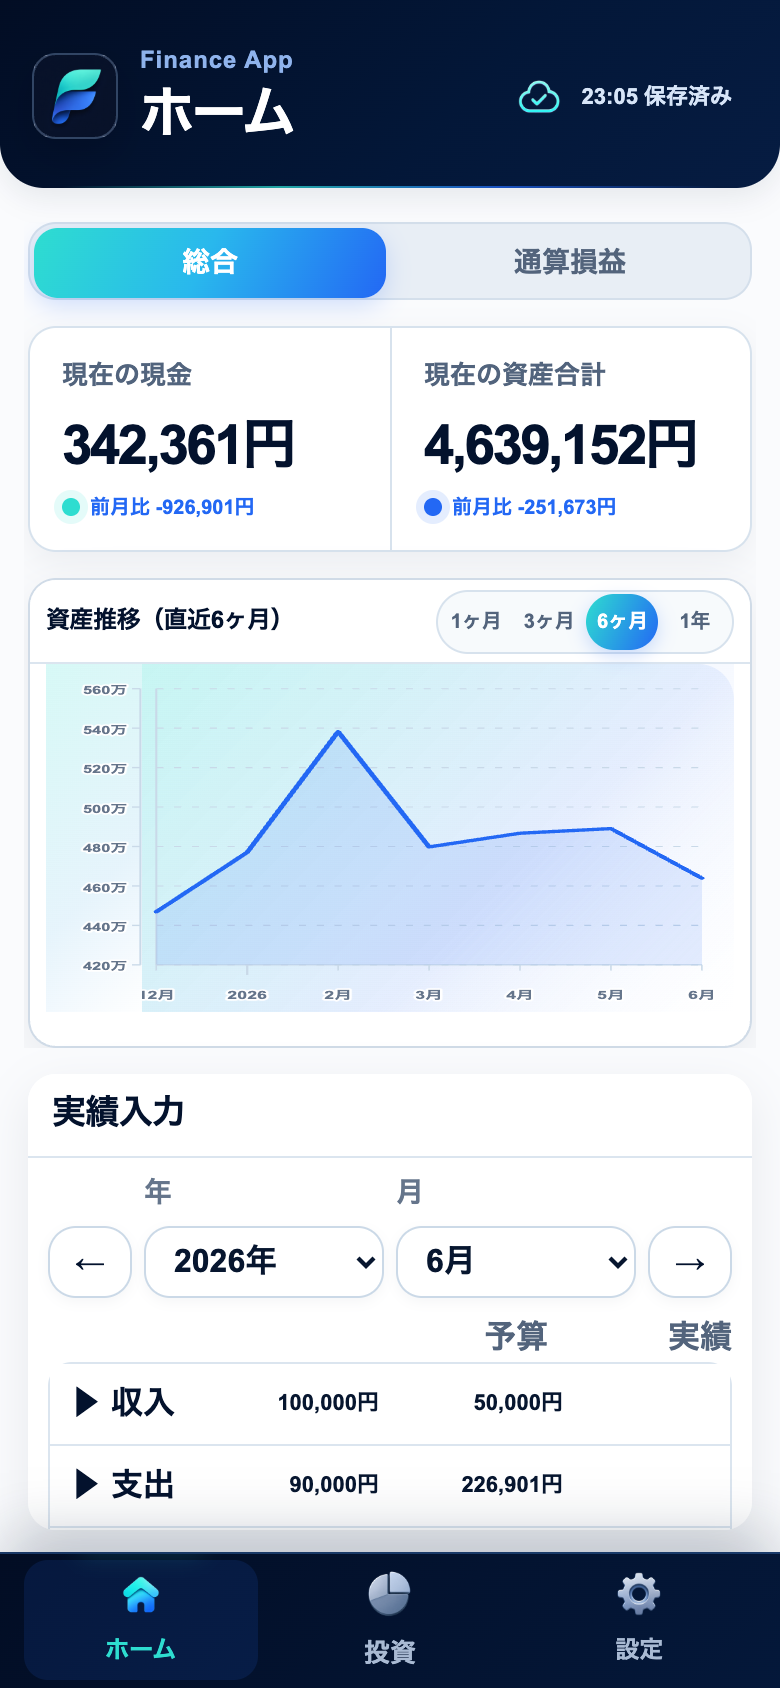
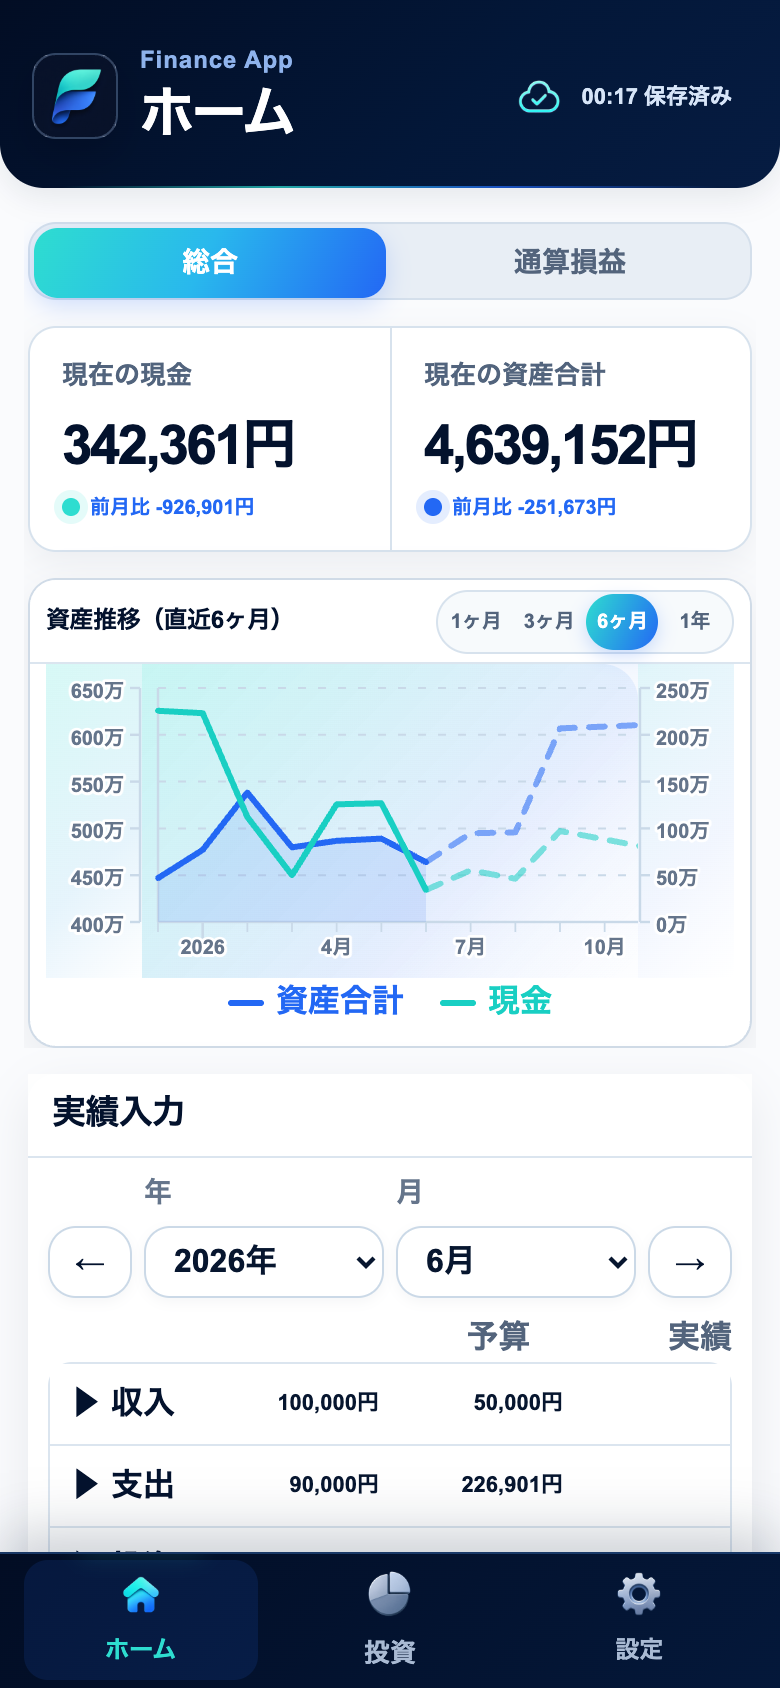
Show forecast lines and fix actual inputs

Changed region(s): [[0.0923, 0.4005, 0.9231, 0.6161], [0.5846, 0.7701, 0.7077, 0.8009], [0.7385, 0.0308, 0.8308, 0.0616]]

diff --git a/components/finance/ShortKView.tsx b/components/finance/ShortKView.tsx
@@ -220,21 +220,28 @@ export function ShortKView({
           typeof row.assetActual === "number" ||
           typeof row.cashActual === "number",
       );
-      const endIndex =
-        lastActualIndex >= 0 ? lastActualIndex + 1 : shortKSeries.length;
-      return shortKSeries
-      .slice(Math.max(0, endIndex - chartRange - 1), endIndex)
-      .map((row) => ({
-        ...row,
-        cashDisplay:
-          typeof row.cashActual === "number"
-            ? row.cashActual
-            : row.cashPrediction,
-        assetDisplay:
-          typeof row.assetActual === "number"
-            ? row.assetActual
-            : row.assetPrediction,
-      }));
+      const anchorIndex =
+        lastActualIndex >= 0 ? lastActualIndex : Math.max(shortKSeries.length - 1, 0);
+      const startIndex = Math.max(0, anchorIndex - chartRange);
+      const endIndex = Math.min(
+        shortKSeries.length,
+        anchorIndex + chartRange + 1,
+      );
+      return shortKSeries.slice(startIndex, endIndex).map((row, offset) => {
+        const index = startIndex + offset;
+        const isPredictionRange = index >= anchorIndex;
+        return {
+          ...row,
+          cashActualDisplay: row.cashActual,
+          cashPredictionDisplay: isPredictionRange
+            ? row.cashPrediction
+            : undefined,
+          assetActualDisplay: row.assetActual,
+          assetPredictionDisplay: isPredictionRange
+            ? row.assetPrediction
+            : undefined,
+        };
+      });
     },
     [chartRange, shortKSeries],
   );
@@ -242,12 +249,20 @@ export function ShortKView({
     const lastActualIndex = shortKSeries.findLastIndex(
       (row) => typeof row.cumulativeProfitActual === "number",
     );
-    const endIndex =
-      lastActualIndex >= 0 ? lastActualIndex + 1 : shortKSeries.length;
-    return shortKSeries.slice(
-      Math.max(0, endIndex - chartRange - 1),
-      endIndex,
+    const anchorIndex =
+      lastActualIndex >= 0 ? lastActualIndex : Math.max(shortKSeries.length - 1, 0);
+    const startIndex = Math.max(0, anchorIndex - chartRange);
+    const endIndex = Math.min(
+      shortKSeries.length,
+      anchorIndex + chartRange + 1,
     );
+    return shortKSeries.slice(startIndex, endIndex).map((row, offset) => ({
+      ...row,
+      cumulativeProfitPredictionDisplay:
+        startIndex + offset >= anchorIndex
+          ? row.cumulativeProfitPrediction
+          : undefined,
+    }));
   }, [chartRange, shortKSeries]);
   const monthlyProfitRows = useMemo(() => {
     const actualRows = shortKSeries.filter(
@@ -497,20 +512,35 @@ export function ShortKView({
             rows={visibleShortKSeries}
             series={[
               {
-                key: "assetDisplay",
+                key: "assetActualDisplay",
                 label: "資産合計",
                 colorIndex: 1,
               },
               {
-                key: "cashDisplay",
+                key: "assetPredictionDisplay",
+                label: "資産予測",
+                colorIndex: 1,
+                dashed: true,
+                hideLegend: true,
+              },
+              {
+                key: "cashActualDisplay",
                 label: "現金",
                 colorIndex: 0,
                 axis: "right",
               },
+              {
+                key: "cashPredictionDisplay",
+                label: "現金予測",
+                colorIndex: 0,
+                axis: "right",
+                dashed: true,
+                hideLegend: true,
+              },
             ]}
             showYAxis
             fitToWidth
-            areaKey="assetDisplay"
+            areaKey="assetActualDisplay"
             chartHeight={157}
             toolbar={
               <div className="home-chart-range" role="group" aria-label="グラフ表示期間">
@@ -539,6 +569,13 @@ export function ShortKView({
             rows={visibleProfitSeries}
             series={[
               { key: "cumulativeProfitActual", label: "通算損益", colorIndex: 1 },
+              {
+                key: "cumulativeProfitPredictionDisplay",
+                label: "通算損益予測",
+                colorIndex: 1,
+                dashed: true,
+                hideLegend: true,
+              },
             ]}
             showYAxis
             fitToWidth

diff --git a/app/deep-canvas-polish.css b/app/deep-canvas-polish.css
@@ -775,6 +775,55 @@
     background: #fff !important;
   }
 
+  .flat-panel .short-k-input-section-body .compact-actual-row {
+    display: grid;
+    grid-template-columns: minmax(72px, 1fr) minmax(64px, 0.72fr) minmax(64px, 0.72fr);
+    align-items: center;
+    gap: 6px;
+  }
+
+  .budget-actual-inline-label {
+    min-width: 0;
+    overflow-wrap: anywhere;
+    color: #33445d;
+    font-size: 12px;
+    font-weight: 800;
+  }
+
+  .budget-actual-budget-value {
+    min-width: 0;
+    color: #07162f;
+    font-size: 11px;
+    font-weight: 800;
+    text-align: right;
+    white-space: nowrap;
+  }
+
+  .budget-actual-input-value {
+    display: grid;
+    grid-template-columns: minmax(0, 1fr) auto;
+    align-items: center;
+    min-width: 0;
+    gap: 2px;
+    color: #53647c;
+    font-size: 11px;
+    font-weight: 800;
+  }
+
+  .budget-actual-input-value .inline-amount-input {
+    width: 100%;
+    min-width: 0;
+    height: 32px;
+    padding: 4px 5px;
+    border: 1px solid #cbdce9;
+    border-radius: 8px;
+    background: #fff;
+    color: #07162f;
+    font-size: 12px;
+    font-weight: 800;
+    text-align: right;
+  }
+
   .settings-collapse-body .budget-setting-row {
     display: grid;
     grid-template-columns: minmax(88px, 0.8fr) minmax(0, 1.2fr);
@@ -803,9 +852,9 @@
   }
 
   .shell:has(.chart-tab-panel) .short-k-layout > .flat-panel {
-    overflow: hidden;
+    overflow: visible;
     min-height: 228px !important;
-    height: 228px !important;
+    height: auto !important;
     border-radius: 14px !important;
   }
 
@@ -838,7 +887,7 @@
 
   .home-actual-columns {
     display: grid;
-    grid-template-columns: minmax(0, 1fr) 92px 92px;
+    grid-template-columns: minmax(72px, 1fr) minmax(64px, 0.72fr) minmax(64px, 0.72fr);
     align-items: center;
     min-height: 18px;
     color: #53647c;
@@ -849,9 +898,10 @@
 
   .compact-budget-ratio {
     display: grid !important;
-    grid-template-columns: 92px 92px;
+    grid-template-columns: repeat(2, minmax(64px, 1fr));
     gap: 0 !important;
-    width: 184px !important;
+    width: min(184px, 58vw) !important;
+    max-width: 100% !important;
     font-size: 11px !important;
     text-align: right;
   }
@@ -875,8 +925,20 @@
 
   .shell:has(.chart-tab-panel) .short-k-input-section-head {
     min-height: 40px !important;
-    height: 40px !important;
+    height: auto !important;
     padding: 6px 10px !important;
+  }
+
+  .shell:has(.chart-tab-panel) .short-k-input-section-head > span:first-child {
+    white-space: nowrap;
+  }
+
+  .shell:has(.chart-tab-panel) .section-head-summary {
+    overflow: hidden;
+  }
+
+  .shell:has(.chart-tab-panel) .short-k-input-section-body {
+    overflow: visible;
   }
 
   .bottom-tabs {

diff --git a/components/finance/ShortKBudgetComponents.tsx b/components/finance/ShortKBudgetComponents.tsx
@@ -10,6 +10,7 @@ function displayLabel(label: string) {
 function InlineAmountInput({ value, onChange }: { value: number; onChange: (value: number) => void }) {
   const [draft, setDraft] = useState(formatMoneyInput(value));
   const [focused, setFocused] = useState(false);
+  const displayValue = formatMoneyInput(value) || "0";
 
   useEffect(() => {
     if (!focused) setDraft(formatMoneyInput(value));
@@ -19,7 +20,7 @@ function InlineAmountInput({ value, onChange }: { value: number; onChange: (valu
     <input
       className="inline-amount-input"
       inputMode="numeric"
-      value={focused ? draft : formatMoneyInput(value)}
+      value={focused ? draft : displayValue}
       onFocus={() => {
         setFocused(true);
         setDraft(value ? String(Math.round(value)) : "");
@@ -81,18 +82,12 @@ export function BudgetActualRow({
   return (
     <div className="budget-actual-card compact-actual-row">
       <div className="budget-actual-inline-label">{displayLabel(label)}</div>
-      <div className="budget-actual-inline-value">
-        <span>(</span>
+      <div className="budget-actual-budget-value">
+        {budget !== null ? money(budget) : "—"}
+      </div>
+      <div className="budget-actual-input-value">
         <InlineAmountInput value={actual} onChange={onChange} />
-        <span>)</span>
-        {budget !== null ? (
-          <>
-            <span>/</span>
-            <span>{money(budget)}</span>
-          </>
-        ) : (
-          <span>円</span>
-        )}
+        <span>円</span>
       </div>
     </div>
   );

diff --git a/public/sw.js b/public/sw.js
@@ -1,4 +1,4 @@
-const CACHE_NAME = "finance-pwa-v13";
+const CACHE_NAME = "finance-pwa-v14";
 const BASE_PATH = new URL(self.registration.scope).pathname.replace(/\/$/, "");
 const APP_SHELL = [
   `${BASE_PATH}/`,

diff --git a/components/PwaRegister.tsx b/components/PwaRegister.tsx
@@ -2,7 +2,7 @@
 
 import { useEffect } from "react";
 
-const SERVICE_WORKER_VERSION = "13";
+const SERVICE_WORKER_VERSION = "14";
 
 export default function PwaRegister() {
   useEffect(() => {

diff --git a/design-qa.md b/design-qa.md
@@ -20,12 +20,12 @@ also remain within 6 CSS pixels, with no clipping, overflow, or broken images.
 
 | Screen | Score |
 | --- | ---: |
-| Home | 99.53% |
-| Cumulative profit | 99.99% |
+| Home | 99.93% |
+| Cumulative profit | 99.84% |
 | Investment summary | 100.00% |
 | Investment fund | 100.00% |
-| Investment active | 99.97% |
-| Investment FX | 99.99% |
+| Investment active | 99.98% |
+| Investment FX | 100.00% |
 | Settings | 99.90% |
 
 **Automated Checks**
